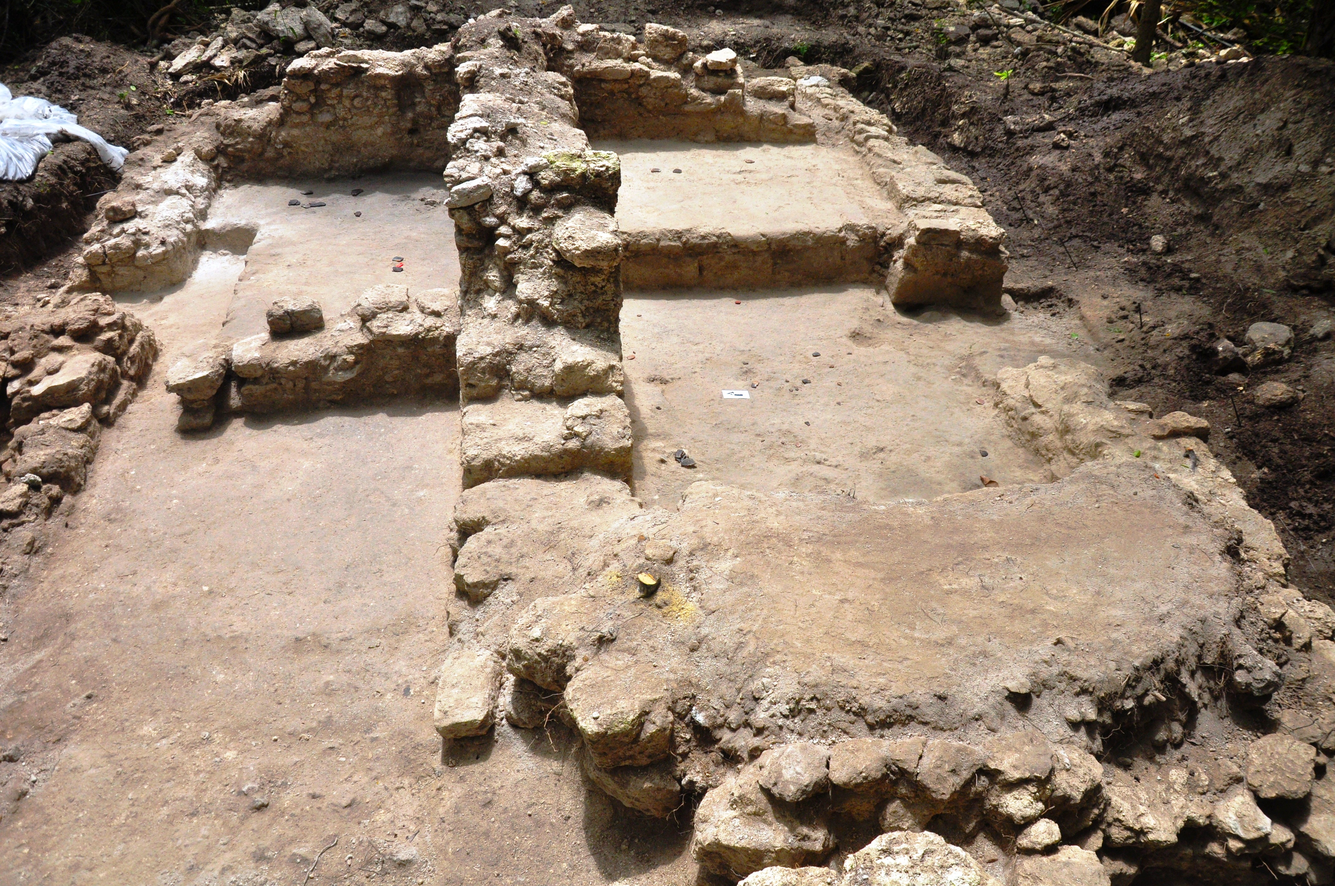
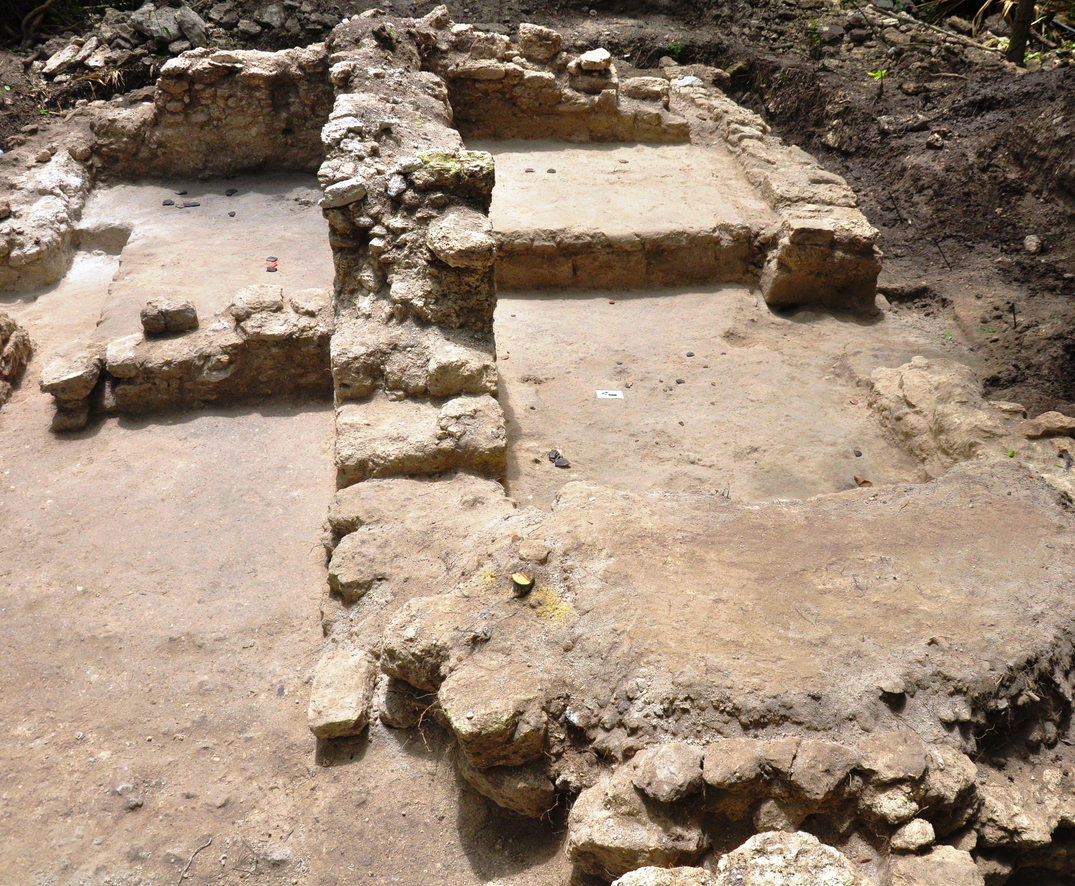
image edits

diff --git a/excavation-of/index.html b/excavation-of/index.html
@@ -6,7 +6,7 @@
   <meta name="viewport" content="width=device-width, initial-scale=1">
   <link rel="stylesheet" href="/assets/css/style.css">
 
-  <!-- Google Fonts -->
+  <!-- Google Fonts test-->
   <link href="https://fonts.googleapis.com/css2?family=Playfair+Display:wght@700&display=swap" rel="stylesheet">
 
   <!-- Page-specific styles -->
